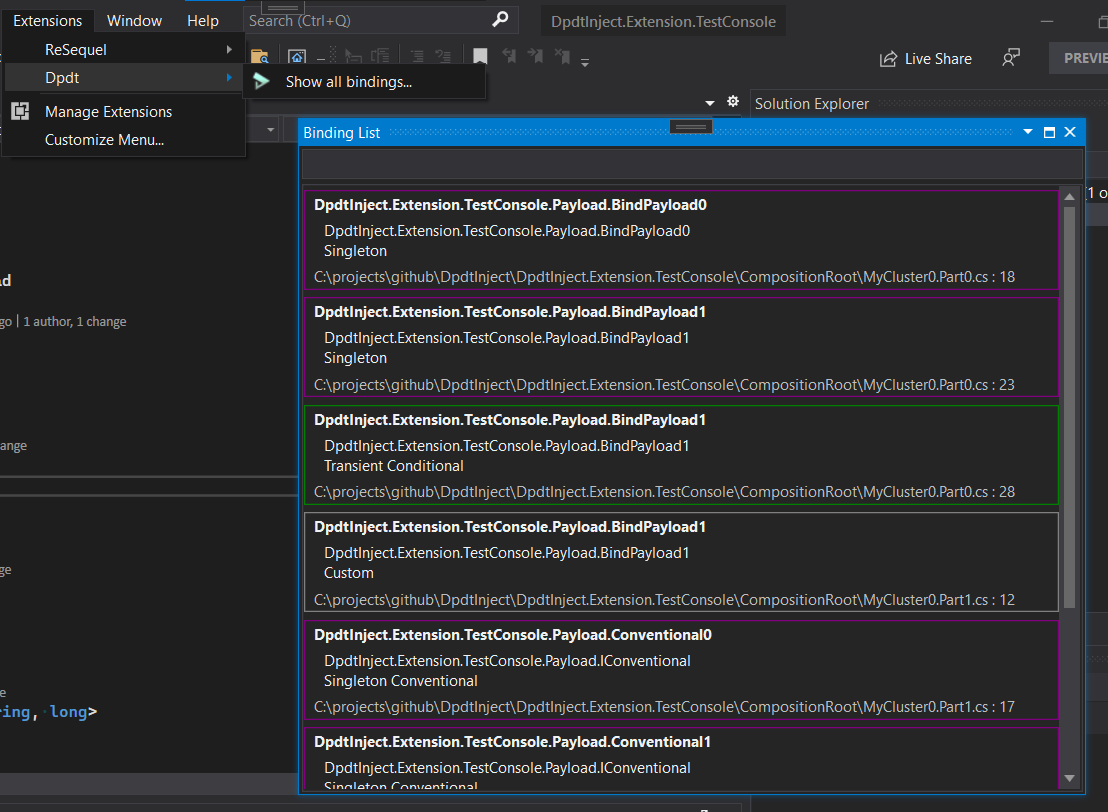
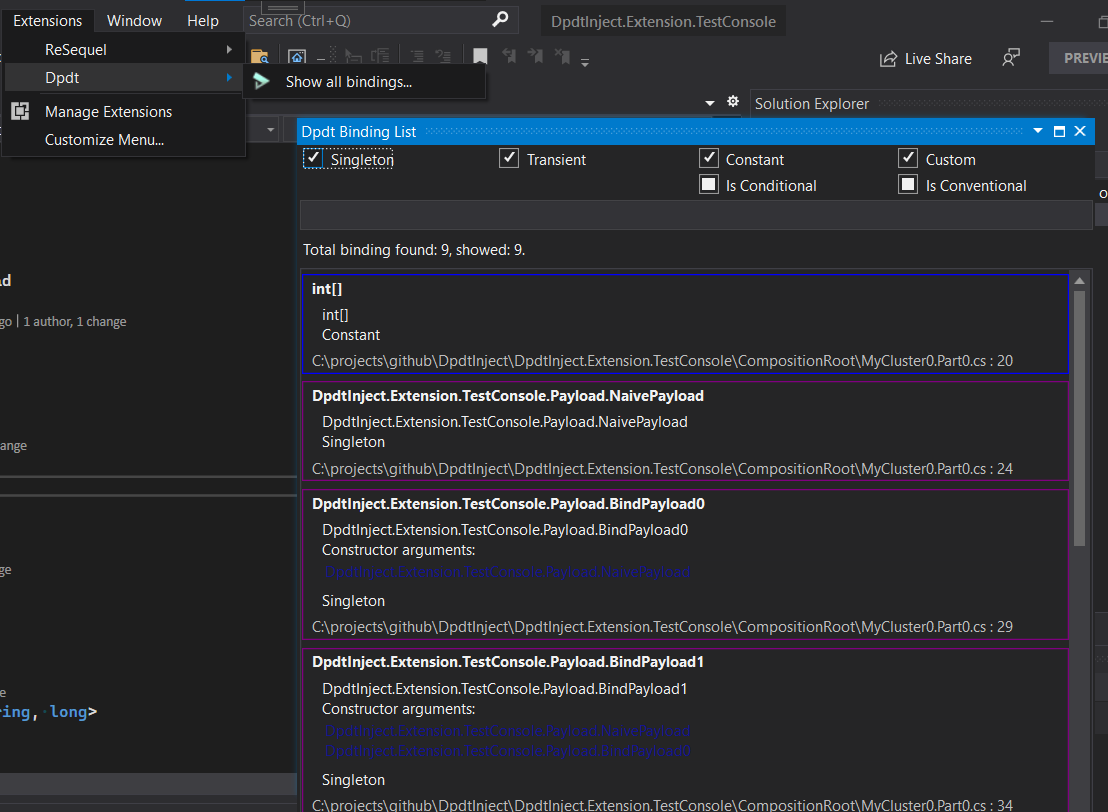
+ additional filtering in the binding window

Changed region(s): [[0.2455, 0.1232, 1.0, 1.0]]

diff --git a/DpdtInject.Extension.VsixShared/UI/ViewModel/BindingList/BindingListViewModel.cs b/DpdtInject.Extension.VsixShared/UI/ViewModel/BindingList/BindingListViewModel.cs
@@ -3,6 +3,7 @@ using DpdtInject.Extension.Helper;
 using DpdtInject.Extension.Shared;
 using DpdtInject.Generator.Core.Binding.Xml;
 using DpdtInject.Injector.Src.Bind;
+using DpdtInject.Injector.Src.Helper;
 using Microsoft.VisualStudio.ComponentModelHost;
 using Microsoft.VisualStudio.Shell;
 using System;
@@ -21,8 +22,8 @@ namespace DpdtInject.Extension.UI.ViewModel.BindingList
         public static Action? RefreshAction;
 
         private readonly List<BindingItemViewModel> _bindingItemList;
+        private FilterValue? _filterValue;
         private string _filterText;
-        private string _lowerFilterText;
 
         private int _filteredCount;
 
@@ -42,7 +43,7 @@ namespace DpdtInject.Extension.UI.ViewModel.BindingList
             {
                 _filteredCount = 0;
                 _filterText = value;
-                _lowerFilterText = value.ToLower();
+                _filterValue = new FilterValue(value);
 
                 BindingItemList.Refresh();
                 OnPropertyChanged();
@@ -70,7 +71,7 @@ namespace DpdtInject.Extension.UI.ViewModel.BindingList
                                 return;
                             }
 
-                            FilterText = type!;
+                            FilterText = nameof(FilterSearchEnum.CA) + ":" + type!;
                         });
                 }
 
@@ -192,7 +193,7 @@ namespace DpdtInject.Extension.UI.ViewModel.BindingList
         public BindingListViewModel()
         {
             _filterText = string.Empty;
-            _lowerFilterText = string.Empty;
+            _filterValue = null;
 
             _bindingItemList = new List<BindingItemViewModel>();
             ReadAllBindings();
@@ -308,13 +309,18 @@ namespace DpdtInject.Extension.UI.ViewModel.BindingList
                     }
                 }
 
-                if (string.IsNullOrEmpty(_lowerFilterText))
+                if (_filterValue == null)
+                {
+                    _filteredCount++;
+                    return true;
+                }
+                if (string.IsNullOrEmpty(_filterValue.Value))
                 {
                     _filteredCount++;
                     return true;
                 }
 
-                if (!bivm.IsRelatedTo(_lowerFilterText))
+                if (!bivm.IsRelatedTo(_filterValue))
                 {
                     return false;
                 }
@@ -339,9 +345,124 @@ namespace DpdtInject.Extension.UI.ViewModel.BindingList
 
     }
 
+    public class FilterValue
+    {
+        public string Value
+        {
+            get;
+        }
+
+        public FilterSearchEnum FilterSearch
+        {
+            get;
+        }
+
+        public FilterValue(
+            string filterText
+            )
+        {
+            if (filterText is null)
+            {
+                throw new ArgumentNullException(nameof(filterText));
+            }
+
+            Value = filterText;
+
+            if (Value.Contains(":"))
+            {
+                var parts = Value.Split(':');
+                if (parts.Length != 2)
+                {
+                    FilterSearch = FilterSearchEnum.All;
+                }
+
+                switch (true)
+                {
+                    case bool when parts[0].Equals(nameof(FilterSearchEnum.From), StringComparison.InvariantCultureIgnoreCase):
+                        FilterSearch = FilterSearchEnum.From;
+                        break;
+                    case bool when parts[0].Equals(nameof(FilterSearchEnum.To), StringComparison.InvariantCultureIgnoreCase):
+                        FilterSearch = FilterSearchEnum.To;
+                        break;
+                    case bool when parts[0].Equals(nameof(FilterSearchEnum.CA), StringComparison.InvariantCultureIgnoreCase):
+                        FilterSearch = FilterSearchEnum.CA;
+                        break;
+                    case bool when parts[0].Equals(nameof(FilterSearchEnum.OtherParameters), StringComparison.InvariantCultureIgnoreCase):
+                        FilterSearch = FilterSearchEnum.OtherParameters;
+                        break;
+                    case bool when parts[0].Equals(nameof(FilterSearchEnum.Other), StringComparison.InvariantCultureIgnoreCase):
+                        FilterSearch = FilterSearchEnum.Other;
+                        break;
+                    case bool when parts[0].Equals(nameof(FilterSearchEnum.BindingLocation), StringComparison.InvariantCultureIgnoreCase):
+                        FilterSearch = FilterSearchEnum.BindingLocation;
+                        break;
+                    case bool when parts[0].Equals(nameof(FilterSearchEnum.Location), StringComparison.InvariantCultureIgnoreCase):
+                        FilterSearch = FilterSearchEnum.Location;
+                        break;
+                    default:
+                        FilterSearch = FilterSearchEnum.All;
+                        break;
+                }
+
+                Value = parts[1];
+            }
+            else
+            {
+                FilterSearch = FilterSearchEnum.All;
+            }
+        }
+
+    }
+
+    /// <summary>
+    /// Where to search this filter
+    /// </summary>
+    [Flags]
+    public enum FilterSearchEnum
+    {
+        /// <summary>
+        /// Bind from types
+        /// </summary>
+        From = 1,
+
+        /// <summary>
+        /// Bind to type
+        /// </summary>
+        To = 2,
+
+        /// <summary>
+        /// Constructor arguments
+        /// </summary>
+        CA = 4,
+
+        /// <summary>
+        /// Other parameters
+        /// </summary>
+        OtherParameters = 8,
+
+        /// <summary>
+        /// Other parameters
+        /// </summary>
+        Other = 8,
+
+        /// <summary>
+        /// Binding location
+        /// </summary>
+        BindingLocation = 16,
+
+        /// <summary>
+        /// Binding location
+        /// </summary>
+        Location = 16,
+
+        /// <summary>
+        /// Everywhere
+        /// </summary>
+        All = From | To | CA | OtherParameters | BindingLocation
+    }
+
     public class BindingItemViewModel : BaseViewModel
     {
-        private readonly string _filter;
 
         public IBindingStatement BindingStatement
         {
@@ -404,13 +525,53 @@ namespace DpdtInject.Extension.UI.ViewModel.BindingList
                 _ => Brushes.Red
             };
 
-            _filter = $"{BindingTo} {BindingsFrom} {OtherParameters} {BindingLocation}".ToLower();
             BindingStatement = bindingStatement;
         }
 
-        internal bool IsRelatedTo(string lowerFilterText)
+        internal bool IsRelatedTo(FilterValue fv)
         {
-            return _filter.Contains(lowerFilterText);
+            if (fv is null)
+            {
+                throw new ArgumentNullException(nameof(fv));
+            }
+
+            if (fv.FilterSearch == FilterSearchEnum.All || fv.FilterSearch == FilterSearchEnum.From)
+            {
+                if (BindingsFrom.Contains(fv.Value))
+                {
+                    return true;
+                }
+            }
+            if (fv.FilterSearch == FilterSearchEnum.All || fv.FilterSearch == FilterSearchEnum.To)
+            {
+                if (BindingTo.Contains(fv.Value))
+                {
+                    return true;
+                }
+            }
+            if (fv.FilterSearch == FilterSearchEnum.All || fv.FilterSearch == FilterSearchEnum.CA)
+            {
+                if (ConstructorArguments.Any(ca => ca.Contains(fv.Value)))
+                {
+                    return true;
+                }
+            }
+            if (fv.FilterSearch == FilterSearchEnum.All || fv.FilterSearch.In(FilterSearchEnum.Other, FilterSearchEnum.OtherParameters))
+            {
+                if (OtherParameters.Contains(fv.Value))
+                {
+                    return true;
+                }
+            }
+            if (fv.FilterSearch == FilterSearchEnum.All || fv.FilterSearch.In(FilterSearchEnum.BindingLocation, FilterSearchEnum.Location))
+            {
+                if (BindingLocation.Contains(fv.Value))
+                {
+                    return true;
+                }
+            }
+
+            return false;
         }
     }
 }

diff --git a/DpdtInject.Extension.TestConsole/Payload/Payload.cs b/DpdtInject.Extension.TestConsole/Payload/Payload.cs
@@ -8,7 +8,12 @@ namespace DpdtInject.Extension.TestConsole.Payload
 {
     public class BindPayload0
     {
+        public BindPayload0(
+            NaivePayload npayload
+            )
+        {
 
+        }
     }
 
     public class BindPayload1

diff --git a/README.md b/README.md
@@ -722,6 +722,16 @@ There is a tool window to look, search and go to any binding in your solution:
 
 ![Dpdt Extension Image 6](extension6.png)
 
+You can enter a text to search everywhere, or use the following predicates to set a search scope:
+
+- `from:` to search only in bind from fields
+- `to:` to search only in bind to field
+- `ca:` to search only in constructor arguments field
+- `other` to search only in the scope field
+- `location` to search only in binding location field
+
+Keep in mind: the searching is case sensitive (like C# too). Examples: `MyClass`, `ca:MyConstructorArgument`, `location:MyFile.cs` etc.
+
 But the main function is to generate a binding clauses through the custom codelens. The following images makes the picture brighter:
 
 ![Dpdt Extension Image 0](extension0.png)
